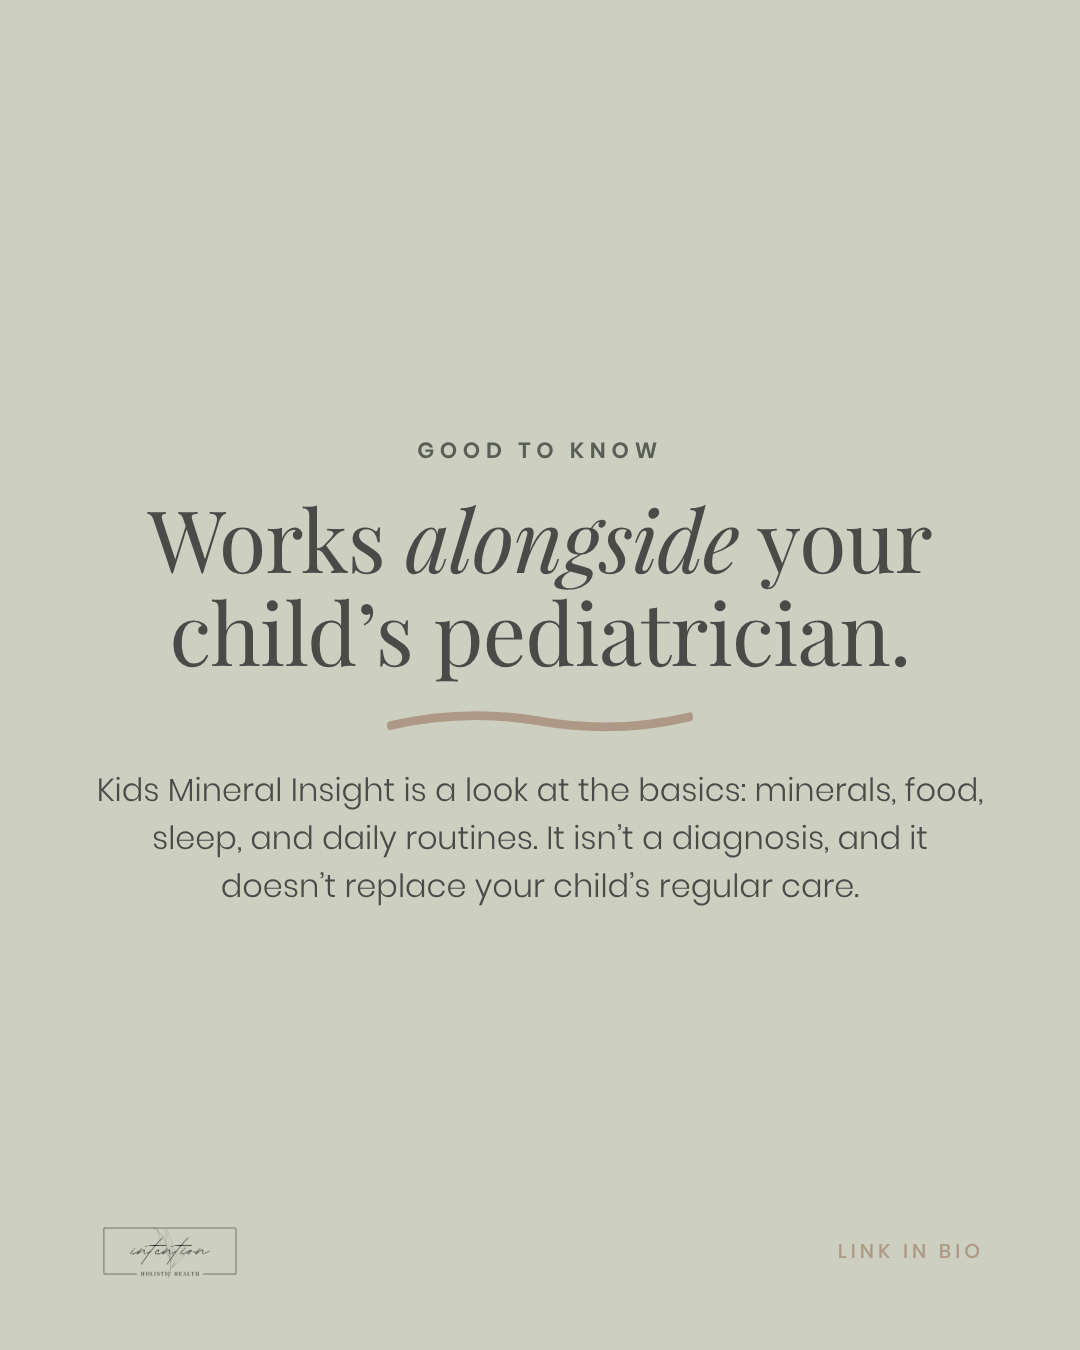
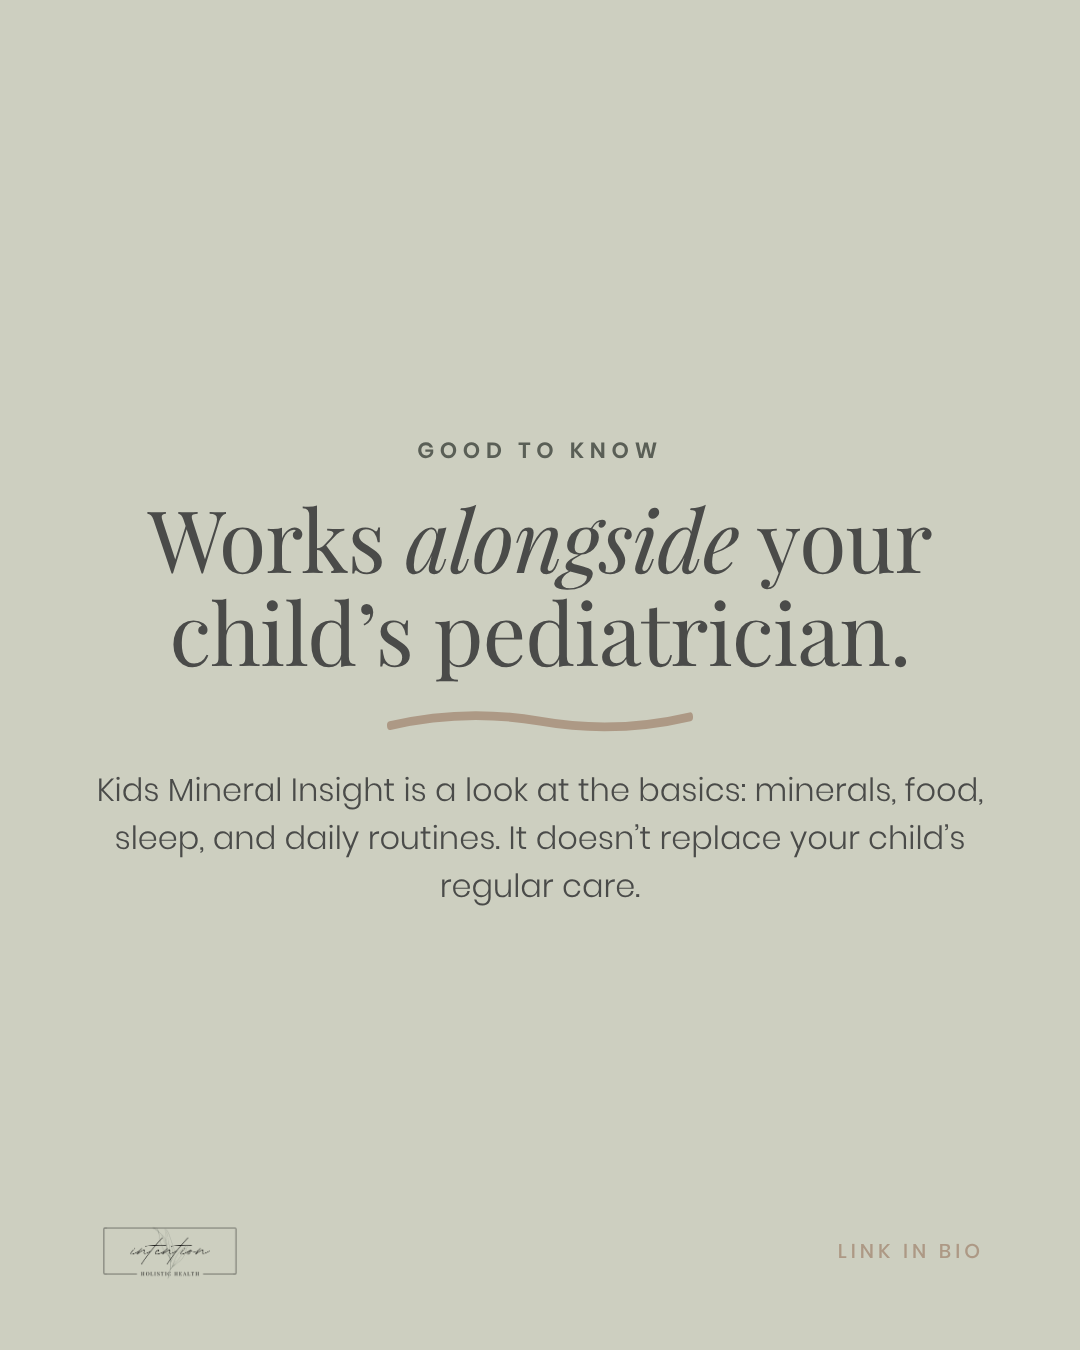
Move HTMA screening-tool wording from post copy into disclaimer lines
Claude-Session: https://claude.ai/code/session_01QwTVoJv6poL6D7AhQ94UEd

Changed region(s): [[0.1222, 0.5911, 0.7944, 0.6844], [0.7944, 0.5911, 0.8861, 0.6533]]

diff --git a/docs/launch-kit.md b/docs/launch-kit.md
@@ -10,7 +10,7 @@
 - [ ] Kids page buttons connected; fill the yellow placeholders on the Kids page (shipping, timelines, teen privacy)
 - [ ] Replace every `[LINK]` below with the live URL
 
-**Compliance reminders (all channels):** never "coach/coaching," "mentor," or "consult/consulting." Use "may," "designed to support," "individual results vary." HTMA is a screening tool, not a diagnosis. Kentucky residents only. Kids Mineral Insight works alongside the pediatrician. Don't promote pregnancy as a time to start a protocol.
+**Compliance reminders (all channels):** never "coach/coaching," "mentor," or "consult/consulting." Use "may," "designed to support," "individual results vary." Kentucky residents only. Keep "HTMA is a screening tool, not a diagnostic test" in the disclaimer line at the bottom of a post or email, not in the main message. Kids Mineral Insight works alongside the pediatrician. Don't promote pregnancy as a time to start a protocol.
 
 ---
 
@@ -117,14 +117,18 @@
 >
 > Your body works hard to keep blood levels steady, so a blood test shows one moment in time. Hair grows over time, so it shows mineral patterns from the past few months.
 >
-> Different tools, different jobs. HTMA is a screening tool, not a diagnosis, and I always read it alongside your health history.
+> Different tools, different jobs, and I always read your results alongside your health history.
+>
+> *HTMA is a screening tool, not a diagnostic test. Individual results vary.*
 
 **L3: Is HTMA safe for kids?** *(L3-safe-for-kids.png)*
 > Parents ask: is HTMA safe for kids? 🤍
 >
-> No needles, no blood draw: just a small hair sample, collected at home. It's a screening tool, not a diagnosis, and it works alongside your child's pediatrician.
+> No needles, no blood draw: just a small hair sample, collected at home. And it works alongside your child's pediatrician.
 >
 > More on this soon. 👀
+>
+> *HTMA is a screening tool, not a diagnostic test. Individual results vary.*
 
 **L4: Picky eaters** *(L4-picky-eater.png)*
 > Same five foods, every meal? 🍝
@@ -191,12 +195,14 @@
 > 02 We review your child's results together, in plain language.
 > 03 You get a few doable steps, plus a follow-up.
 >
-> HTMA is a screening tool, not a diagnosis. Link in bio.
+> Link in bio.
+>
+> *HTMA is a screening tool, not a diagnostic test. Individual results vary.*
 
 **5: Works alongside your pediatrician** *(5-pediatrician.png)*
 > Good to know: Kids Mineral Insight works *alongside* your child's pediatrician. 🩺
 >
-> It's a look at the basics (minerals, food, sleep, and daily routines). It isn't a diagnosis, and it doesn't replace your child's regular care. When something deserves a closer look, I'll point you back to your pediatrician.
+> It's a look at the basics (minerals, food, sleep, and daily routines). It doesn't replace your child's regular care. When something deserves a closer look, I'll point you back to your pediatrician.
 
 **6: Mom + Child Bundle** *(6-bundle.png; post on or after opening day)*
 > For you AND your kiddo. 💛
@@ -272,10 +278,14 @@
 > Planning for a baby? 🤍 Wanting to feel ready before you start trying. Already tired, and not even pregnant yet. Cycles that are hard to predict. Told to "just take a prenatal." Building your mineral stores before pregnancy may help you go into it more nourished. The best time to start Mineral Insight is about 3–18 months before you start trying. Link in bio.
 
 **E: How Mineral Insight works** *(carousel Ea–Ed)*
-> Three simple steps, all from home: test, review, plan. HTMA is a screening tool, not a diagnosis. I read your results alongside your health history, food, and sleep to decide where to start. Link in bio.
+> Three simple steps, all from home: test, review, plan. I read your results alongside your health history, food, and sleep to decide where to start. Link in bio.
+>
+> *HTMA is a screening tool, not a diagnostic test. Individual results vary.*
 
 **F: What does a hair test show?** *(F-what-is-htma.png)*
 > HTMA measures minerals like magnesium, sodium, potassium, and zinc in a small hair sample. A blood test shows a single moment; hair grows over time, so HTMA shows patterns from the past few months. On its own, it's a page of bars and numbers. In your review, I translate it into a plan. Link in bio.
+>
+> *HTMA is a screening tool, not a diagnostic test. Individual results vary.*
 
 ## Everyday newsletter emails (send as regular newsletters, not announcements)
 
